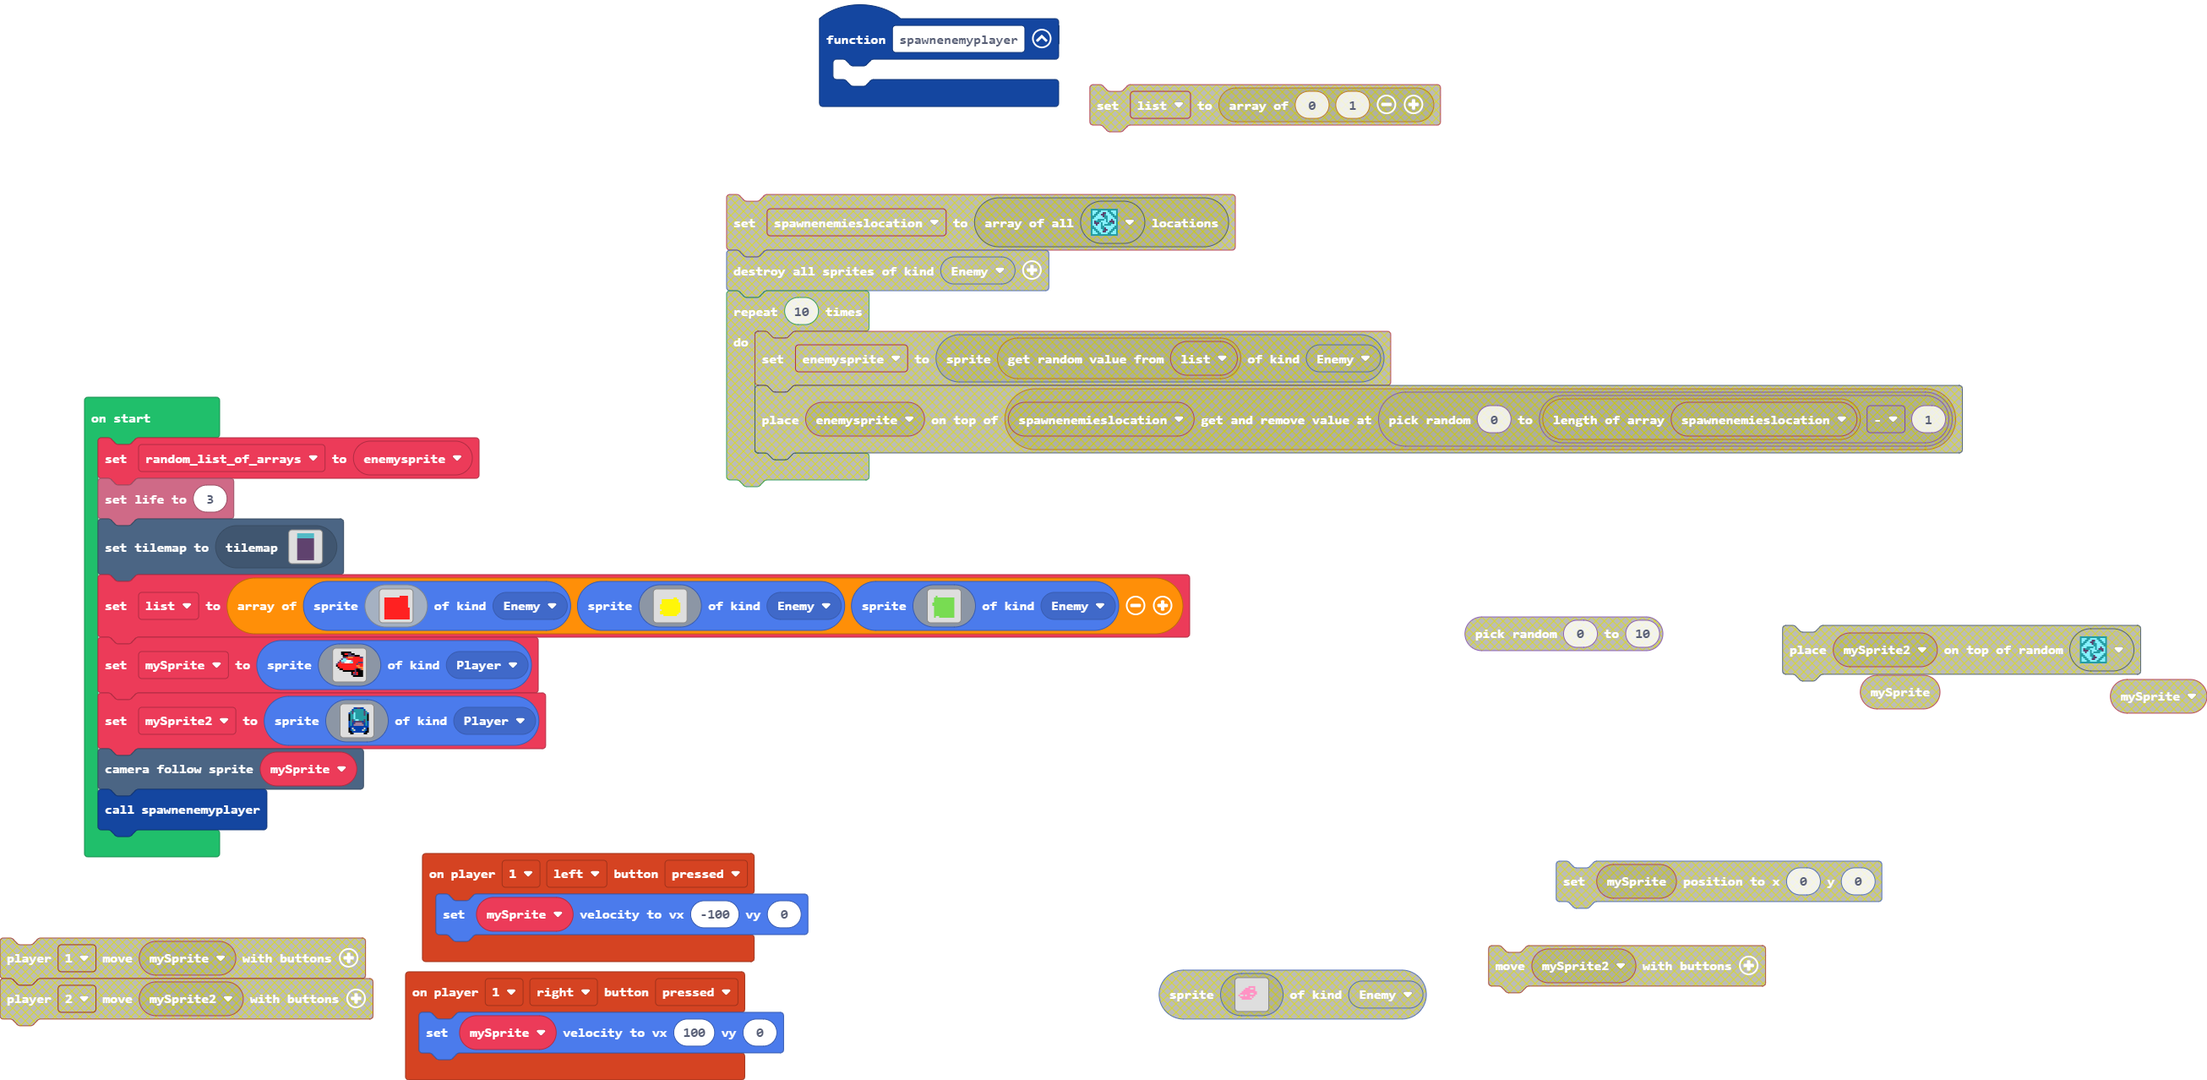
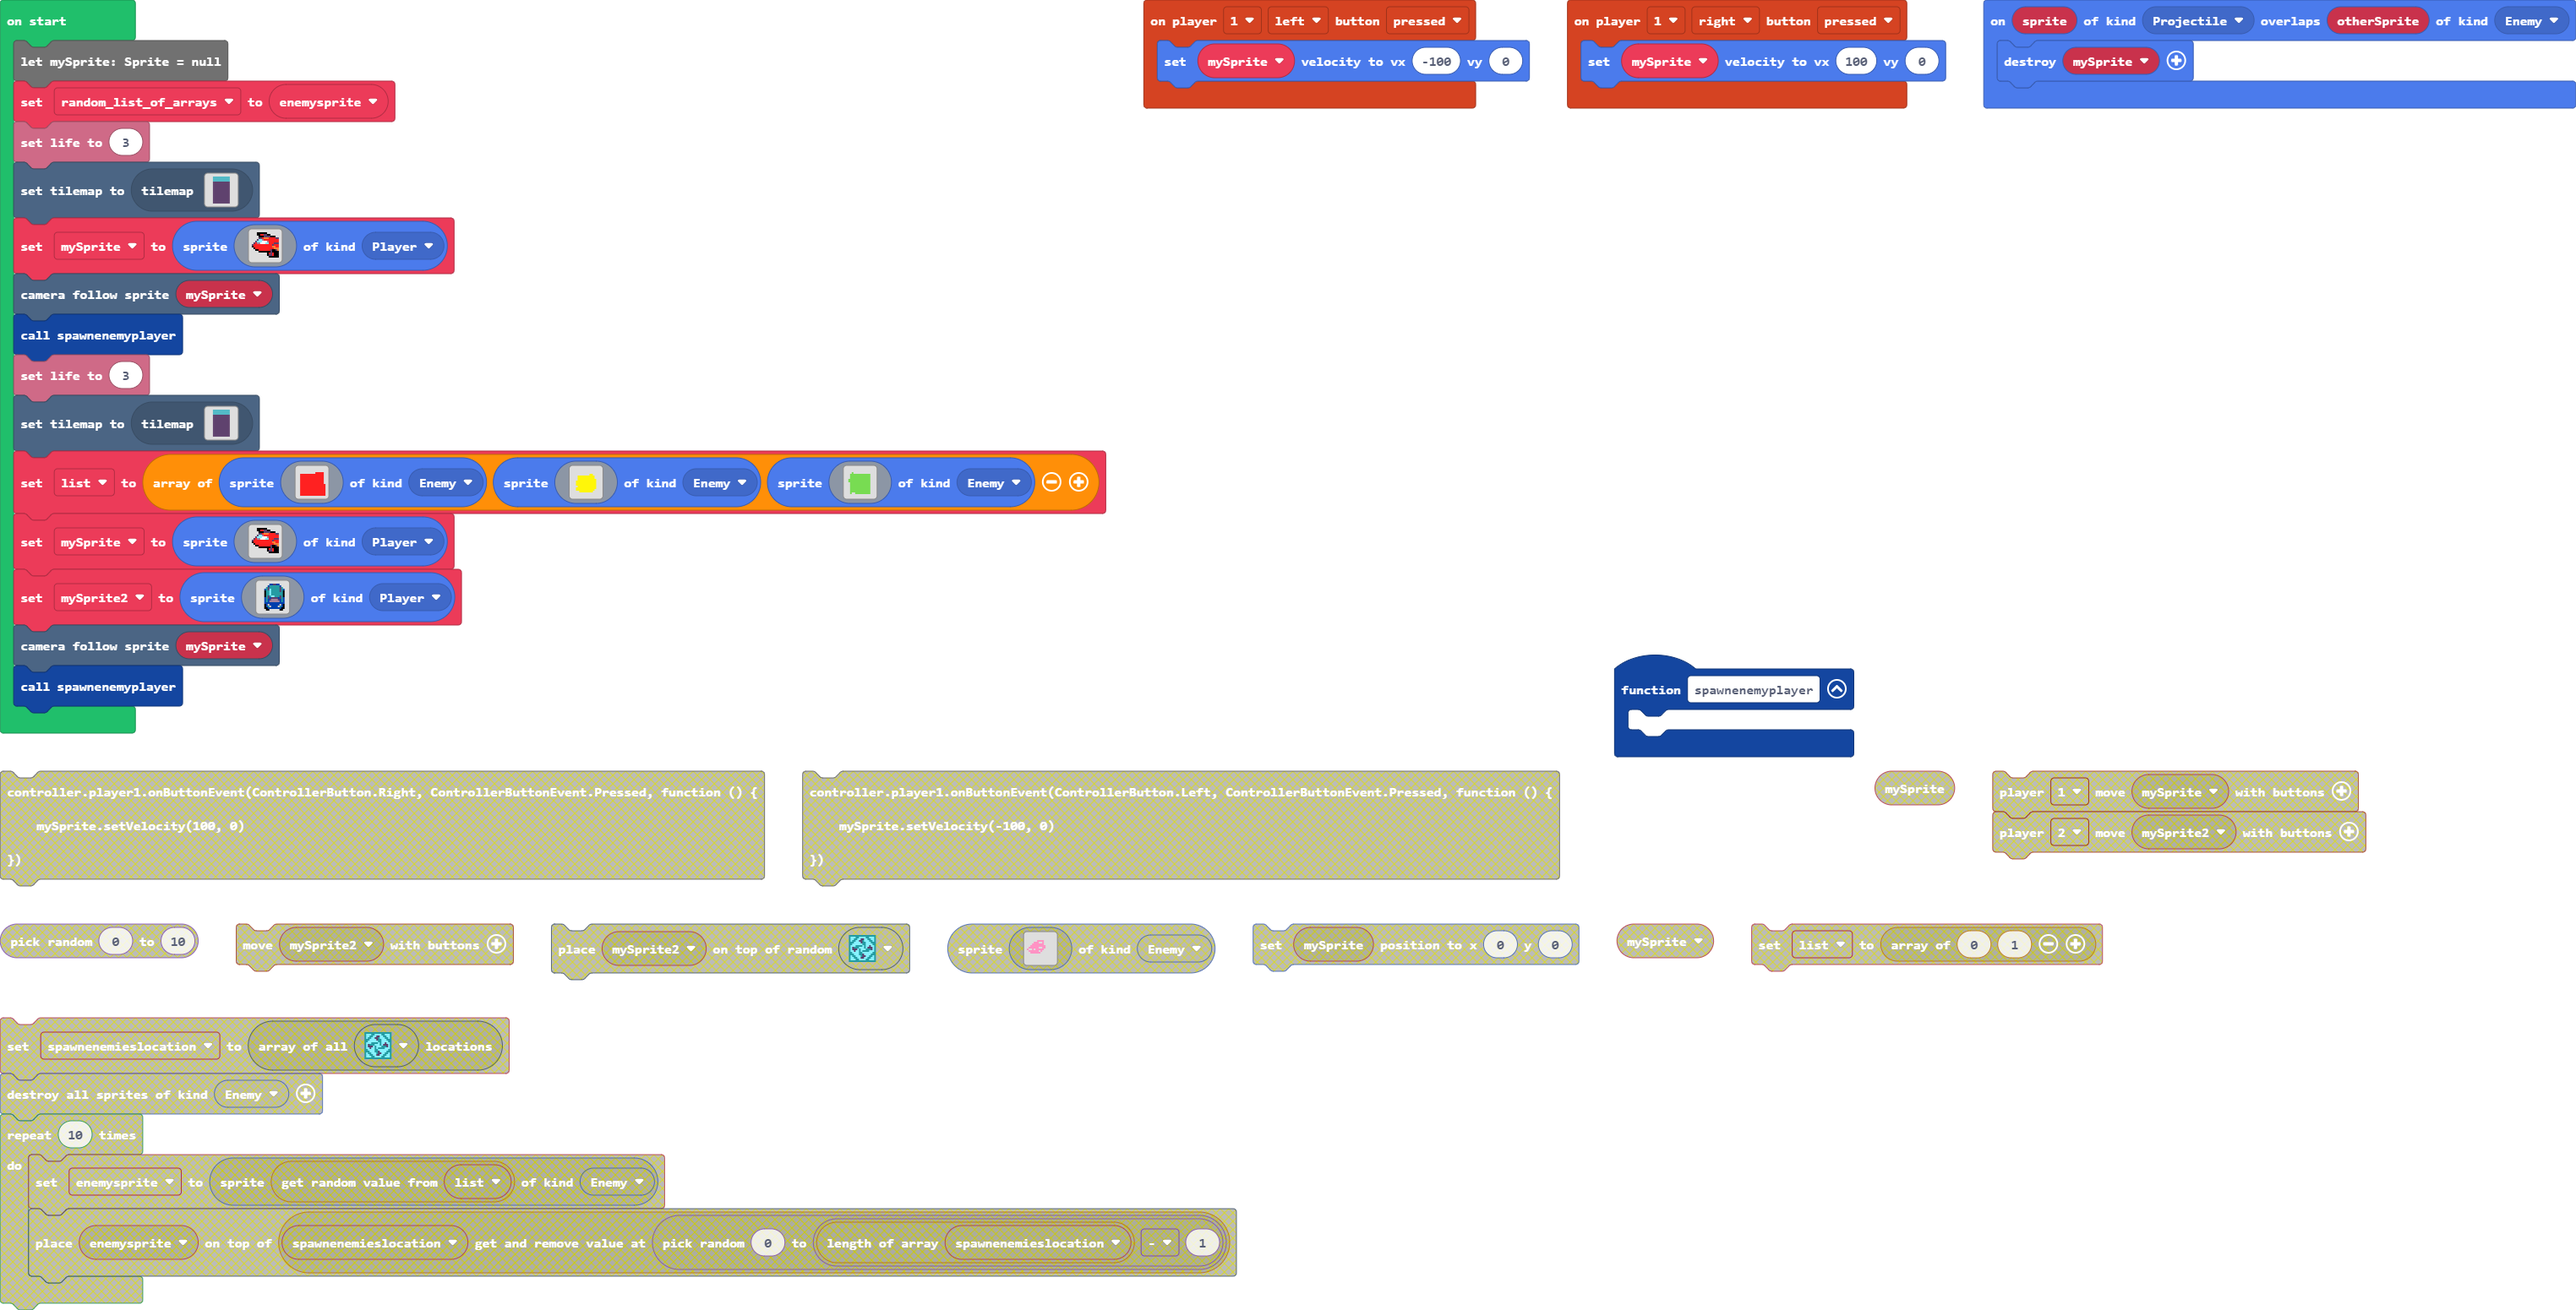
new stable

diff --git a/main.ts b/main.ts
@@ -4,12 +4,37 @@ controller.player1.onButtonEvent(ControllerButton.Right, ControllerButtonEvent.P
 function spawnenemyplayer () {
 	
 }
+sprites.onOverlap(SpriteKind.Projectile, SpriteKind.Enemy, function (sprite, otherSprite) {
+    sprites.destroy(mySprite)
+})
 controller.player1.onButtonEvent(ControllerButton.Left, ControllerButtonEvent.Pressed, function () {
     mySprite.setVelocity(-100, 0)
 })
-let mySprite: Sprite = null
 let enemysprite = 0
+let mySprite: Sprite = null
 let random_list_of_arrays = enemysprite
+info.setLife(3)
+tiles.setCurrentTilemap(tilemap`level2`)
+mySprite = sprites.create(img`
+    . . . f f f f f f . . . . . . . 
+    . . . f f 2 2 c c f f . . . . . 
+    . . . . f f f c c c c f f f . . 
+    . . . . c c 2 4 4 4 2 2 2 2 c c 
+    . . . c 9 9 b 2 2 2 2 2 2 2 2 2 
+    . . c 9 9 9 1 1 1 b 2 2 2 2 2 2 
+    . c 2 b b 1 1 1 9 9 2 2 2 c c c 
+    c 2 2 2 2 2 2 2 2 2 2 2 c 2 2 2 
+    f 2 2 2 2 2 2 2 2 2 2 2 4 4 2 2 
+    . f 2 2 2 2 2 2 2 2 2 2 2 4 4 4 
+    . . f f 2 2 2 2 2 2 2 c f f c 4 
+    . . . . f f f f f f f c f f f f 
+    . . . . . . . . . f 2 c 2 f f f 
+    . . . . . . . . . f c c 2 f f f 
+    . . . . . . . . . . f f f f f f 
+    . . . . . . . . . . . . . . . . 
+    `, SpriteKind.Player)
+scene.cameraFollowSprite(mySprite)
+spawnenemyplayer()
 info.setLife(3)
 tiles.setCurrentTilemap(tilemap`level2`)
 let list = [sprites.create(img`
